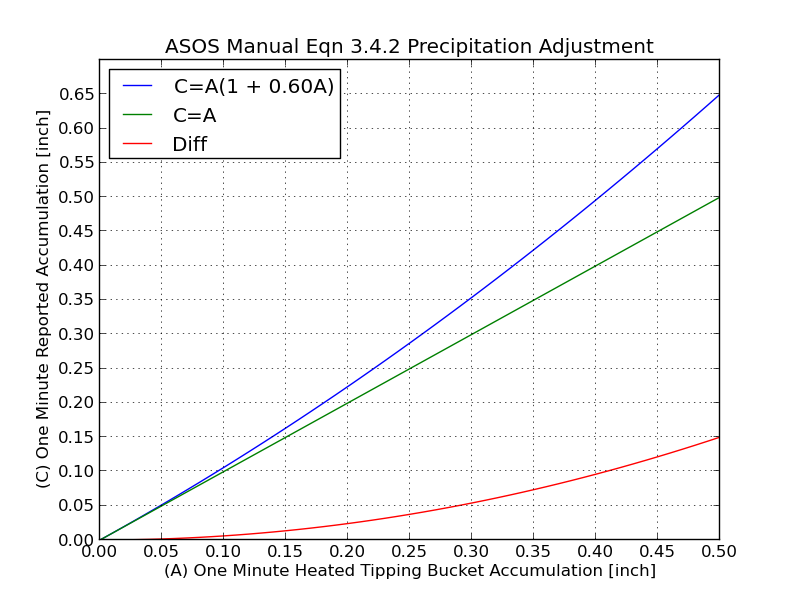
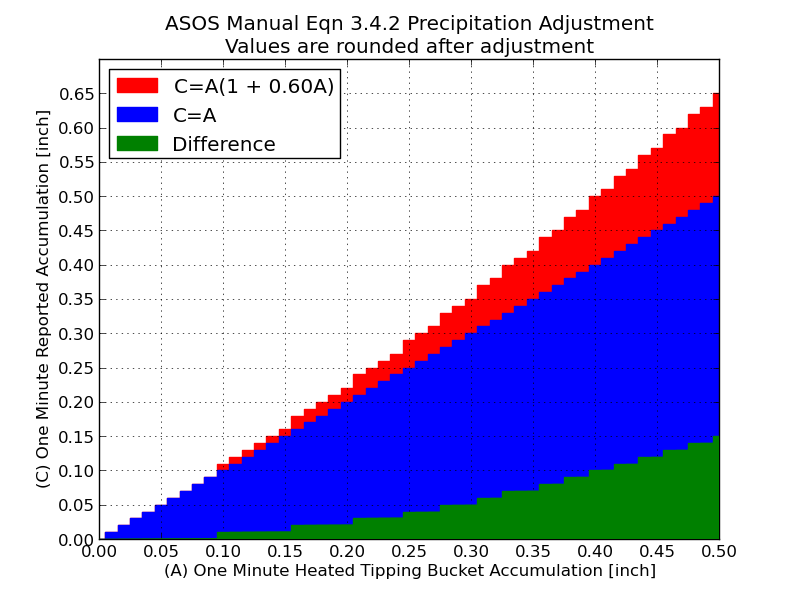
update eqn 3.4.2 graph to be more representative of what happens

diff --git a/scripts/asos/eqn342.py b/scripts/asos/eqn342.py
@@ -1,0 +1,25 @@
+'''
+Generate a plot of the equation shown in the ASOS manual for the website
+'''
+import matplotlib.pyplot as plt
+import numpy as np
+
+x = np.arange(0,4,0.01)
+y = np.round(x + 0.6 * x**2,2)
+
+(fig, ax) = plt.subplots(1,1)
+
+ax.bar(x-0.005, y, label='C=A(1 + 0.60A)', fc='r', ec='r', zorder=1)
+ax.bar(x-0.005, x, label='C=A', fc='b', ec='b', zorder=2)
+ax.bar(x-0.005, y-x, label='Difference', zorder=3, fc='g', ec='g')
+ax.grid(True)
+ax.set_xlabel("(A) One Minute Heated Tipping Bucket Accumulation [inch]")
+ax.set_ylabel("(C) One Minute Reported Accumulation [inch]")
+ax.legend(loc='best')
+ax.set_xticks(np.arange(0,0.51,0.05))
+ax.set_yticks(np.arange(0,0.71,0.05))
+ax.set_xlim(0,0.5)
+ax.set_ylim(0,0.7)
+ax.set_title("ASOS Manual Eqn 3.4.2 Precipitation Adjustment\nValues are rounded after adjustment")
+
+fig.savefig('test.png')
